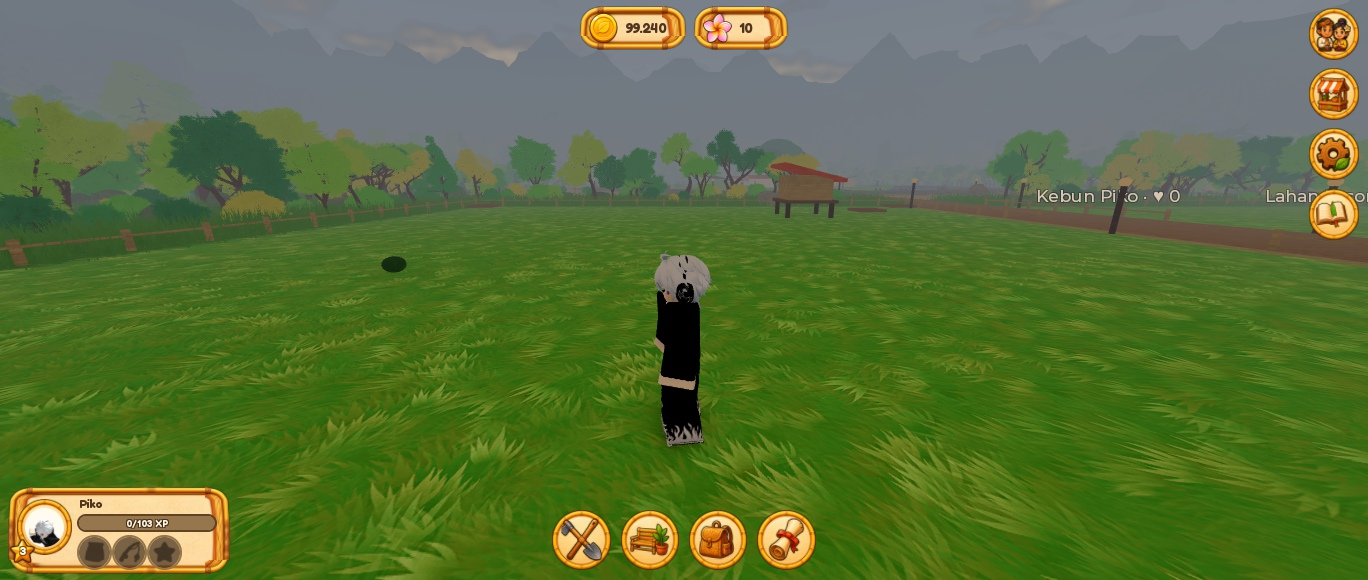
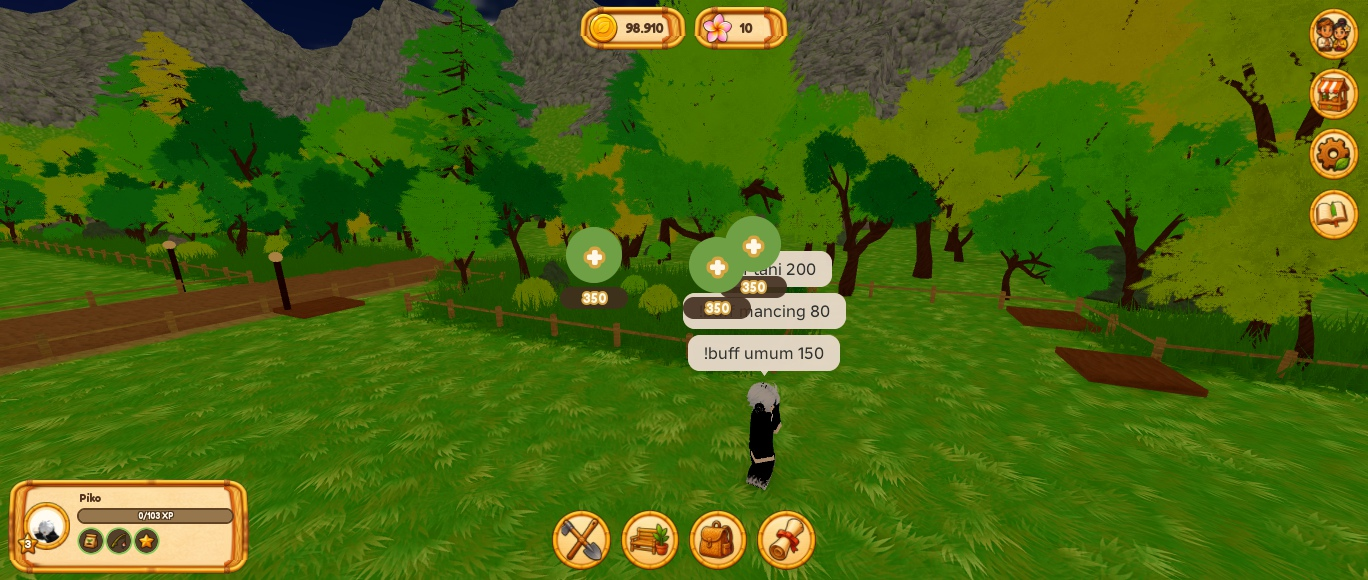
UI: kartu pemain dengan jarak dari bingkai, ikon buff lebih kecil, tombol + maksimal 3 terdekat

diff --git a/docs/GUI_Design.md b/docs/GUI_Design.md
@@ -12,7 +12,7 @@ Screenshot: [HUD default](screenshots/UI_hud_default.jpg) · [menu Garap + toolt
 - **Kanan atas:** kolom **vertikal** tombol bulat Warga, Toko, Atur, Koleksi. **Tanpa caption**: nama muncul sebagai tooltip saat mouse di atasnya (di HP tidak ada tooltip, ikon harus cukup jelas).
   - **Di HP (layar sentuh):** kolom menciut di balik satu tombol bulat **Menu** (hamburger). Ketuk → item meluncur turun dengan animasi (±0,28 d) dan hamburger berputar seperempat; setelah memilih sesuatu menu menutup lagi. Di PC kolom selalu terbuka. Uji di PC: `player:SetAttribute("CompactHud", true)`.
 - **Bawah tengah (dock):** Garap, Hias, Tas, Pesanan; bulat, **tanpa caption**, tombol Garap diberi cincin hijau saat mode Garap aktif.
-- **Kiri bawah:** kartu pemain = foto + bintang level + nama + **bar XP ramping** (14 px, angka di dalamnya) dan di bawahnya **3 slot buff**.
+- **Kiri bawah:** kartu pemain (232×92) = foto + bintang level + nama + **bar XP ramping** (12 px, angka di dalamnya) dan di bawahnya **3 slot buff** kecil (23 px, ikon 16 px). Bingkai bambu kartu tebal, jadi **semua isi (foto, bar XP, buff) menjaga jarak ≥ 14 px dari tepi kartu** dan tidak ada yang menyentuh bingkai.
   - Slot buff: ikon **kosong** (siluet gelap) bila tidak aktif; bila aktif, ikon **penuh** yang **terkuras dari atas ke bawah** seiring waktu, dengan cincin hijau. Hover (mouse) atau ketuk (HP) menampilkan nama, sisa waktu, dan efeknya. Tiga slot = satu per jenis (`Config/Buffs`): **Segar Bertani** (tanaman baru tumbuh 10% lebih cepat), **Umpan Wangi** (ikan menggigit 25% lebih cepat), **Kenyang** (XP +10%). **Efeknya belum dikodekan**; tampilan sudah (uji: ketik `!buff tani 60` di chat Studio). Ikon sementara memakai ikon yang ada (bibit, pancing, bintang) sampai ikon ForgeGUI (kosong + penuh) dibuat.
 - Pandangan tengah dibiarkan kosong. Tidak ada chip "tujuan" lagi.
 - HUD memakai `IgnoreGuiInset = true` + `ScreenInsets = DeviceSafeInsets`: bebas dari top bar Roblox, tetap menghindari notch.
@@ -20,7 +20,7 @@ Screenshot: [HUD default](screenshots/UI_hud_default.jpg) · [menu Garap + toolt
 ## Menu melayang (bukan panel besar)
 - **Warna: bambu gelap** (`UiKit.DARK`, cokelat tua) dengan teks krem dan garis bambu emas, **bukan putih**. Dipakai untuk bar Garap, petunjuk di atas ("toast" Garap), tooltip, dan popup beli lahan.
 - **Menu Garap** (di atas dock): jumlah petak, 4 alat dalam grid 2×2, dan **badge tutup (X)** di pojok. Nama alat: **Cangkul** (jadikan tanah), **Hijaukan** (kembalikan jadi rumput), **Gali Kolam**, **Urug Kolam** (menggantikan "Garap / Ratakan / Kolam / Hapus Kolam"). **Beli Lahan tidak ada di sini lagi.**
-- **Beli lahan:** tombol bulat **+** dengan harga melayang di atas tiap chunk yang bisa dibeli. Hanya muncul saat karakter dekat (≤ 80 stud, seperti proximity prompt) dan tersembunyi saat mode Garap terbuka. Ketuk → **popup kecil** ("Beli lahan ini?", info, harga, Beli / Batal, X); tombol Beli jadi "Koin kurang" bila Koin tidak cukup. Dibangun dari Frame ScreenGui yang mengikuti titik 3D tiap frame (billboard biasa di PlayerGui tidak bisa diuji di Studio dan kurang andal).
+- **Beli lahan:** tombol bulat **+** dengan harga melayang di atas tiap chunk yang bisa dibeli. Hanya muncul saat karakter dekat (≤ 50 stud, seperti proximity prompt), **maksimal 3 sekaligus (yang terdekat)** supaya layar tidak penuh, dan tersembunyi saat mode Garap terbuka. Ketuk → **popup kecil** ("Beli lahan ini?", info, harga, Beli / Batal, X); tombol Beli jadi "Koin kurang" bila Koin tidak cukup. Dibangun dari Frame ScreenGui yang mengikuti titik 3D tiap frame (billboard biasa di PlayerGui tidak bisa diuji di Studio dan kurang andal).
 - Nama kecil yang tampil saat hover sekarang tooltip, bukan caption tetap, supaya HP tidak penuh.
 
 ## Panel (semua lewat `UiKit.panel`)
